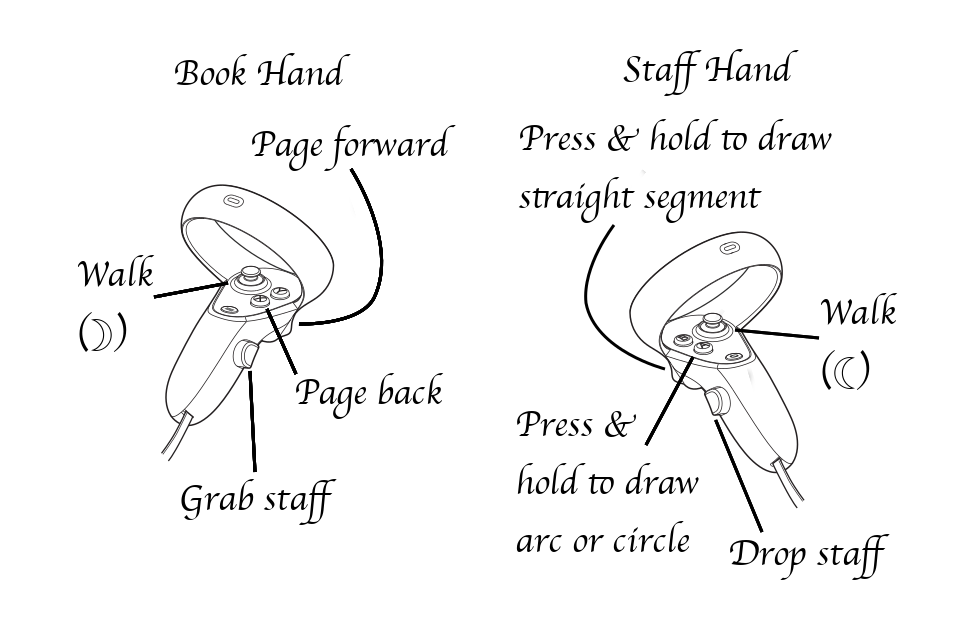
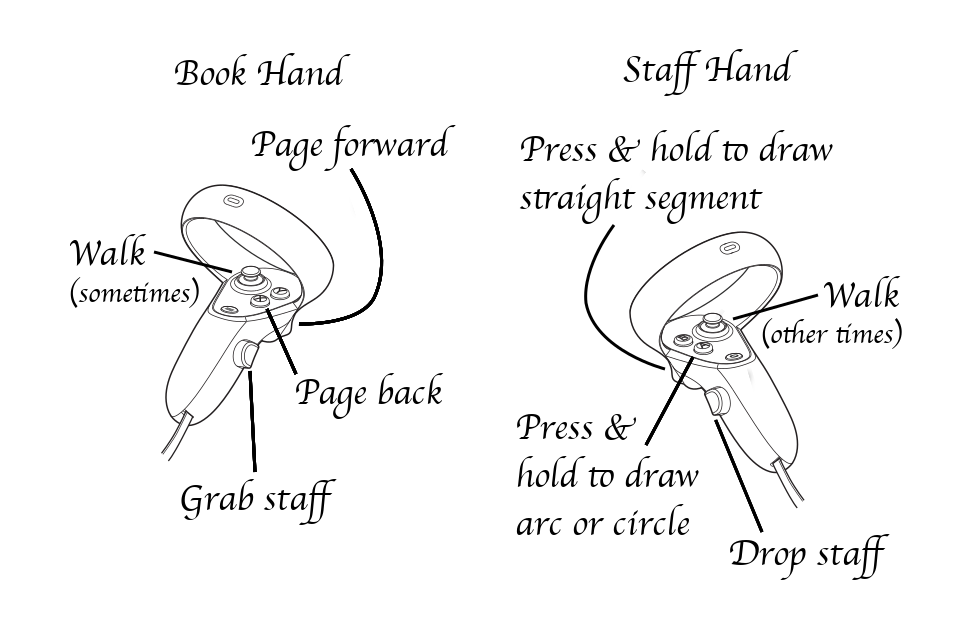
Improves control labels in help diagram.

diff --git a/src/intro.js b/src/intro.js
@@ -20,7 +20,7 @@ This webapp requires a VR headset and two 6-DOF controllers. Sorry.</div>`
 
     let html = `
 <div class="wrapper">
-    <div><b>Barrier Mage</b>: Draw mystic symbols to burn, protect, or detect &amp; drive off creatures!</div>
+    <div><b>Barrier Mage</b>: Draw mystic symbols to burn, protect, or detect &amp; drive off fantastic creatures!</div>
     <img src="assets/symbols.png" alt="pentacle, brimstone, triquetra, Borromean rings, quicksilver and day-rune"><br>
     ${requirements}
     <div>

diff --git a/README.md b/README.md
@@ -1,5 +1,5 @@
 # Barrier Mage
-Draw mystic symbols which burn, protect, bind, detect, illuminate or link. Use these spells to drive off creatures both mundane and magical!
+Draw mystic symbols which burn, protect, bind, detect, illuminate or link. Use these spells to drive off fantastic creatures!
 
 ![pentacle & Violent Cloud](assets/pentacle-ViolentCloud.jpg)
 
@@ -10,8 +10,12 @@ Uses WebXR and [A-Frame](https://aframe.io) and requires two 6-DOF controllers.
 The six symbols currently supported are:
 ![mystic symbols](assets/symbols.png)
 
-At present, there is one sad caveat:
-* My landscape component doesn't respond to point light sources, so the only effect of writing the day rune is to light up your hands and staff.
+Pentacle to protect<br>
+Brimstone to burn<br>
+Triquetra knot to bind<br>
+Borromean rings to link<br>
+Quicksilver to detect<br>
+Dagaz (day rune) to illuminate
 
 
 ![controls diagram](assets/book_controls_diagram.png)
@@ -23,12 +27,9 @@ Off hand trigger: Page forward<br>
 Off hand A or X Button: Page backward<br>
 Joystick: walk
 
-Brimstone to burn<br>
-Triquetra knot to bind<br>
-Borromean rings to link<br>
-Pentacle to protect<br>
-Quicksilver to detect<br>
-Dagaz (day rune) to illuminate
+
+At present, there is one sad caveat:
+* My landscape component doesn't respond to point light sources, so the only effect of writing the day rune is to light up your hands and staff.
 
 
 If you're moved to create a fantasy landscape that can use point light sources, I'd much appreciate such a contribution!
